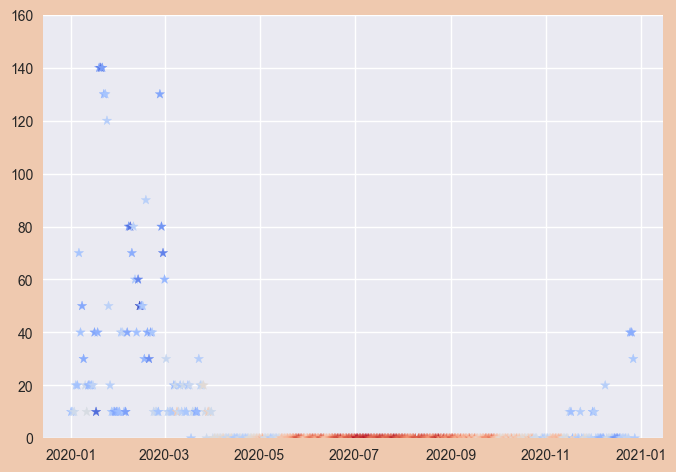
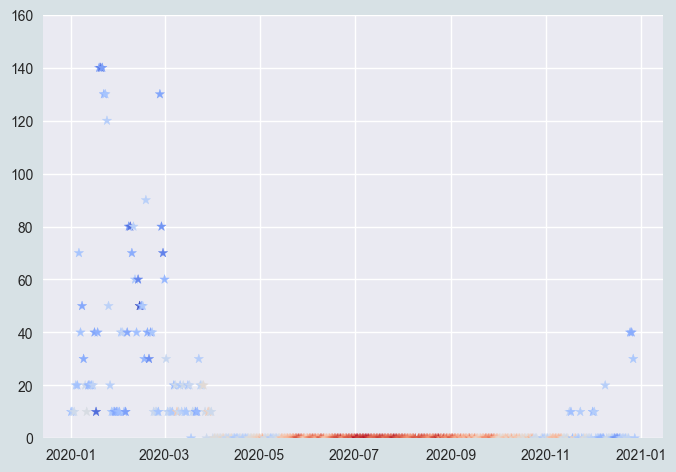
Updated background color of graphs.

Changed region(s): [[0.0, 0.0, 1.0, 1.0]]

diff --git a/temperature.py b/temperature.py
@@ -31,6 +31,6 @@ plt.fill_between(dates, highs, lows, facecolor='blue', alpha=0.1)
 
 # Format plot.
 plt.gca().set_ylim([-20, 40])
-fig.patch.set_facecolor('#efc9af')
+fig.patch.set_facecolor('#D7E1E5')
 
 plt.savefig('images/temperature.png', bbox_inches='tight')

diff --git a/snow_depth.py b/snow_depth.py
@@ -33,6 +33,6 @@ ax.scatter(dates, snwds, c=temps, cmap='coolwarm', marker='*')
 
 # Format plot.
 plt.gca().set_ylim([0, 160])
-fig.patch.set_facecolor('#efc9af')
+fig.patch.set_facecolor('#D7E1E5')
 
 plt.savefig('images/snow_depth.png', bbox_inches='tight')

diff --git a/precipitation.py b/precipitation.py
@@ -27,6 +27,6 @@ ax.bar(dates, prcps, width=2, color='lightblue')
 
 # Format plot.
 plt.gca().set_ylim([0, 60])
-fig.patch.set_facecolor('#efc9af')
+fig.patch.set_facecolor('#D7E1E5')
 
 plt.savefig('images/precipitation.png', bbox_inches='tight')
